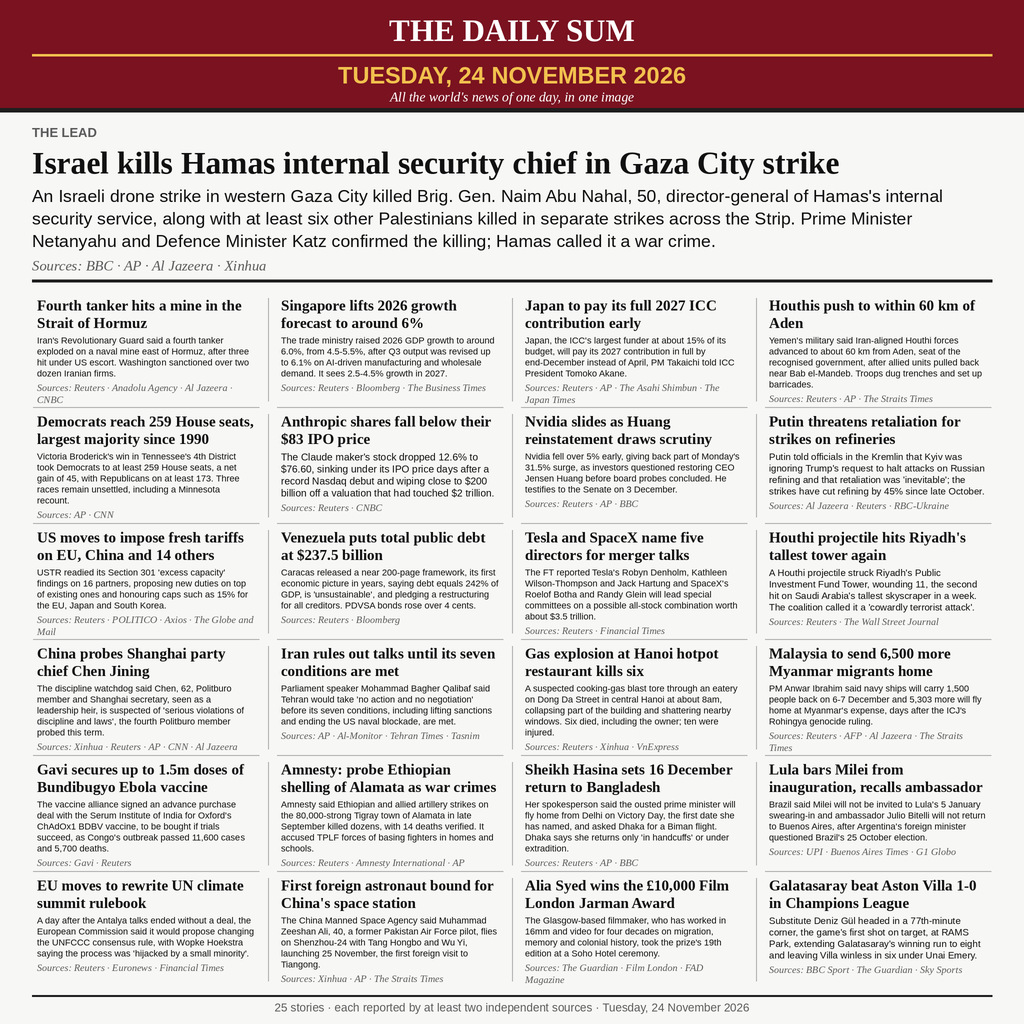
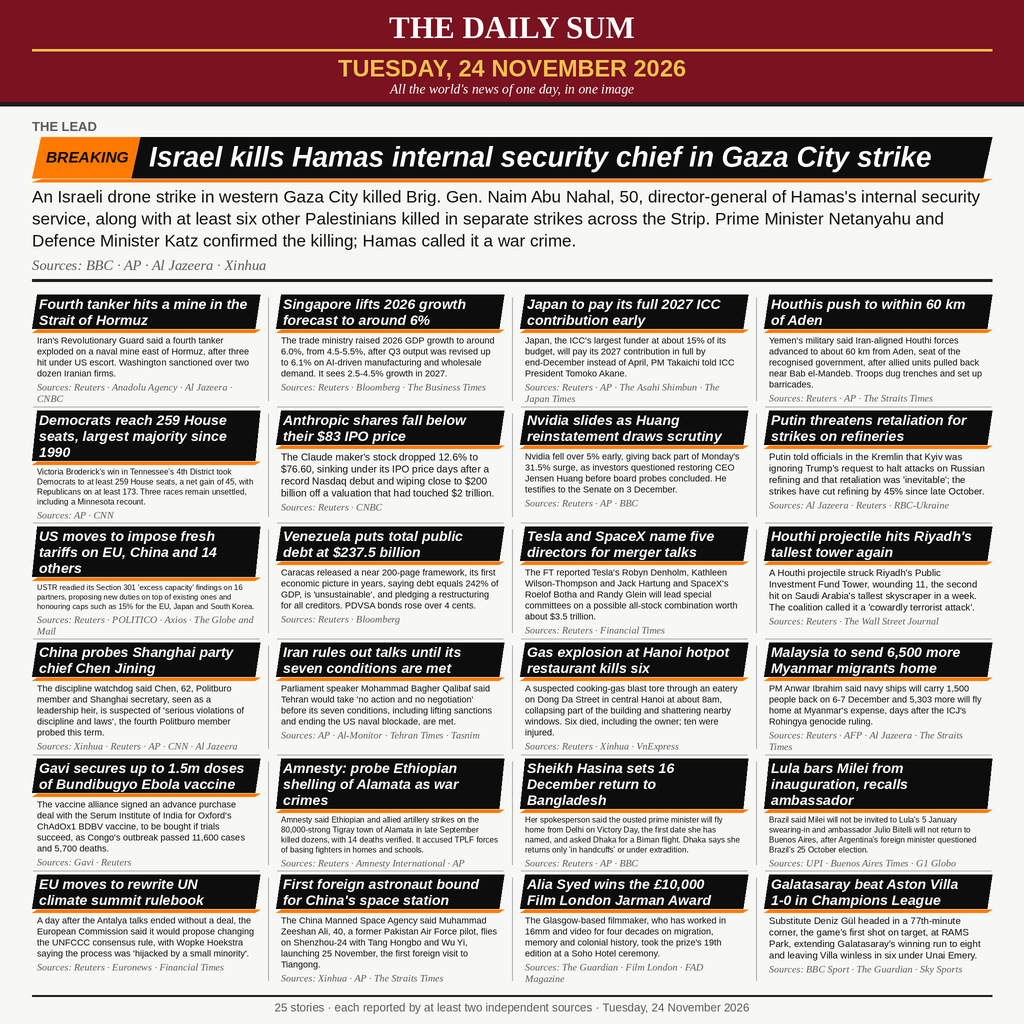
Headlines on TV breaking-news ribbons: slanted black bars, white bold italic, orange strip

diff --git a/render.py b/render.py
@@ -6,11 +6,14 @@ downscaled with Lanczos resampling to 1024x1024, saved as a JPEG at quality
 93 with 4:4:4 chroma subsampling. Rendering is fully deterministic: the
 same story data and the same fonts always produce byte-identical output.
 
-Design: a newspaper front page. Colour appears only in the masthead band
-at the top; the body of the page is strictly black, white and grey. The
-lead story runs full width under the masthead, followed by a grid of the
-remaining 24 stories in four columns and six rows. Every story prints its
-headline, a short summary and the names of its sources beneath it.
+Design: a newspaper front page. The masthead band at the top is crimson
+and gold; in the body, every headline runs on a TV-style breaking-news
+ribbon: a slanted black bar with the headline in white bold italic and a
+thin orange strip beneath it, while summaries and source lines stay
+black and grey on the paper. The lead story runs full width under the
+masthead, followed by a grid of the remaining 24 stories in four columns
+and six rows. Every story prints its headline, a short summary and the
+names of its sources beneath it.
 """
 
 import os
@@ -34,12 +37,16 @@ HAIR = (178, 178, 178)         # hairline column rules
 BAND = (122, 18, 32)           # masthead crimson (colour lives here only)
 BAND_GOLD = (242, 193, 78)     # masthead gold rule and date
 BAND_WHITE = (255, 255, 255)   # masthead text
+BLOCK = (13, 13, 13)           # headline ribbon: black slanted bar
+HEADLINE_ON_BLOCK = (255, 255, 255)  # headline text on the ribbon: white
+RIBBON_ORANGE = (255, 122, 0)  # ribbon strip and tab: vivid orange
 
 # ---------------------------------------------------------------- fonts
 SERIF_BOLD = "/usr/share/fonts/truetype/liberation/LiberationSerif-Bold.ttf"
 SERIF_ITALIC = "/usr/share/fonts/truetype/liberation/LiberationSerif-Italic.ttf"
 SANS = "/usr/share/fonts/truetype/liberation/LiberationSans-Regular.ttf"
 SANS_BOLD = "/usr/share/fonts/truetype/liberation/LiberationSans-Bold.ttf"
+SANS_BOLD_ITALIC = "/usr/share/fonts/truetype/liberation/LiberationSans-BoldItalic.ttf"
 
 
 def font(path, size):
@@ -74,15 +81,26 @@ def centered(draw, text, y, fnt, fill):
     draw.text(((W - w) / 2, y), text, font=fnt, fill=fill)
 
 
+def draw_ribbon(draw, x, y, w, h, slant=12):
+    """TV breaking-news ribbon: a slanted black bar with a thin orange
+    strip beneath it. Returns the y just below the strip."""
+    draw.polygon([(x + slant, y), (x + w, y),
+                  (x + w - slant, y + h), (x, y + h)], fill=BLOCK)
+    sy = y + h + 2
+    draw.polygon([(x + slant, sy), (x + w, sy),
+                  (x + w - slant, sy + 6), (x, sy + 6)], fill=RIBBON_ORANGE)
+    return sy + 6
+
+
 # ---------------------------------------------------------------- masthead
 def draw_masthead(draw):
-    band_h = 216
+    band_h = 204
     draw.rectangle([0, 0, W, band_h], fill=BAND)
-    centered(draw, "THE DAILY SUM", 26, font(SERIF_BOLD, 62), BAND_WHITE)
-    draw.rectangle([MARGIN, 108, W - MARGIN, 112], fill=BAND_GOLD)
-    centered(draw, "TUESDAY, 24 NOVEMBER 2026", 124,
+    centered(draw, "THE DAILY SUM", 20, font(SERIF_BOLD, 62), BAND_WHITE)
+    draw.rectangle([MARGIN, 98, W - MARGIN, 102], fill=BAND_GOLD)
+    centered(draw, "TUESDAY, 24 NOVEMBER 2026", 110,
              font(SANS_BOLD, 47), BAND_GOLD)
-    centered(draw, "All the world's news of one day, in one image", 178,
+    centered(draw, "All the world's news of one day, in one image", 162,
              font(SERIF_ITALIC, 27), BAND_WHITE)
     # heavy black rule closing the coloured strip
     draw.rectangle([0, band_h, W, band_h + 8], fill=RULE)
@@ -92,14 +110,23 @@ def draw_masthead(draw):
 # ---------------------------------------------------------------- lead
 def draw_lead(draw, y):
     draw.text((MARGIN, y), "THE LEAD", font=font(SANS_BOLD, 26), fill=GREY)
-    y += 40
-    hf = font(SERIF_BOLD, 63)
-    lines = wrap(draw, LEAD["headline"], hf, CONTENT_W)
-    y = draw_lines(draw, lines, MARGIN, y, hf, INK, 74)
-    y += 8
-    sf = font(SANS, 35)
+    y += 36
+    hf = font(SANS_BOLD_ITALIC, 56)
+    tab_w = 216
+    lines = wrap(draw, LEAD["headline"], hf, CONTENT_W - tab_w - 34)
+    bar_h = len(lines) * 68 + 14
+    bottom = draw_ribbon(draw, MARGIN, y, CONTENT_W, bar_h, slant=18)
+    draw.polygon([(MARGIN + 18, y), (MARGIN + tab_w, y),
+                  (MARGIN + tab_w - 18, y + bar_h), (MARGIN, y + bar_h)],
+                 fill=RIBBON_ORANGE)
+    draw.text((MARGIN + 28, y + bar_h // 2 - 19), "BREAKING",
+              font=font(SANS_BOLD_ITALIC, 31), fill=BLOCK)
+    draw_lines(draw, lines, MARGIN + tab_w + 18, y + 8, hf,
+               HEADLINE_ON_BLOCK, 68)
+    y = bottom + 10
+    sf = font(SANS, 34)
     lines = wrap(draw, LEAD["summary"], sf, CONTENT_W)
-    y = draw_lines(draw, lines, MARGIN, y, sf, INK, 45)
+    y = draw_lines(draw, lines, MARGIN, y, sf, INK, 44)
     y += 8
     draw.text((MARGIN, y), "Sources: " + LEAD["sources"],
               font=font(SERIF_ITALIC, 29), fill=GREY)
@@ -113,30 +140,32 @@ def draw_cell(draw, story, x, y, w, h):
     """Draw one story inside the cell box; shrink the summary font until
     headline + summary + source line all fit the cell height."""
     inner_w = w - 20
-    hf = font(SERIF_BOLD, 30)
-    h_lines = wrap(draw, story["headline"], hf, inner_w)
-    head_h = len(h_lines) * 35
+    hf = font(SANS_BOLD_ITALIC, 28)
+    h_lines = wrap(draw, story["headline"], hf, inner_w - 18)
+    head_h = len(h_lines) * 32
 
     src_f = font(SERIF_ITALIC, 20)
     src_lines = wrap(draw, "Sources: " + story["sources"], src_f, inner_w)
-    src_h = len(src_lines) * 24
+    src_h = len(src_lines) * 23
 
+    block_h = head_h + 4 + 8  # bar padding + orange strip beneath the bar
     body = None
-    for size, line_h in ((24, 29), (22, 27), (21, 25), (20, 24), (19, 23), (18, 22)):
+    for size, line_h in ((24, 29), (22, 27), (21, 25), (20, 24), (19, 23), (18, 22), (17, 21), (16, 20), (15, 19), (14, 18)):
         bf = font(SANS, size)
         s_lines = wrap(draw, story["summary"], bf, inner_w)
-        if head_h + 6 + len(s_lines) * line_h + 6 + src_h <= h:
+        if block_h + 6 + len(s_lines) * line_h + 6 + src_h <= h:
             body = (bf, s_lines, line_h)
             break
     if body is None:
         raise ValueError("story does not fit its cell: " + story["headline"])
     bf, s_lines, line_h = body
 
-    cy = draw_lines(draw, h_lines, x + 10, y + 4, hf, INK, 35)
-    cy += 6
+    draw_ribbon(draw, x, y, w, head_h + 4, slant=10)
+    cy = draw_lines(draw, h_lines, x + 14, y + 3, hf, HEADLINE_ON_BLOCK, 32)
+    cy = y + block_h + 5
     cy = draw_lines(draw, s_lines, x + 10, cy, bf, INK, line_h)
-    cy += 6
-    draw_lines(draw, src_lines, x + 10, cy, src_f, GREY, 24)
+    cy += 5
+    draw_lines(draw, src_lines, x + 10, cy, src_f, GREY, 23)
 
 
 def draw_grid(draw, top, bottom):
@@ -148,7 +177,7 @@ def draw_grid(draw, top, bottom):
         r, c = divmod(i, cols)
         x = MARGIN + c * (cell_w + gap)
         y = top + r * cell_h
-        draw_cell(draw, story, x, y, cell_w, cell_h - 14)
+        draw_cell(draw, story, x, y, cell_w, cell_h - 8)
         if c:  # hairline rule between columns
             draw.line([x - gap // 2, y + 6, x - gap // 2, y + cell_h - 20],
                       fill=HAIR, width=2)
